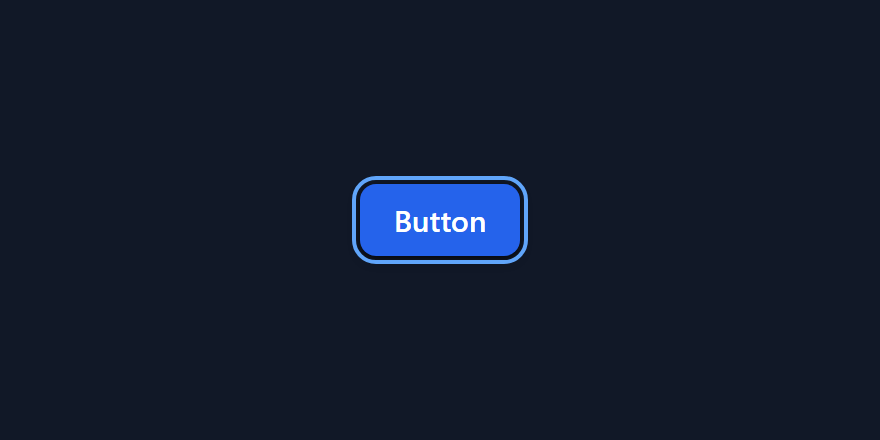
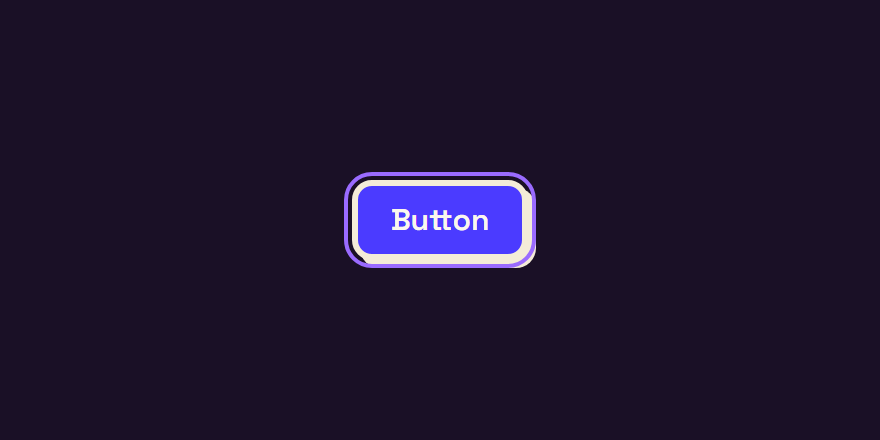
feat(tokens): disciplined maximalist base aesthetic in light, dark, and pixel
Reassign the semantic token layer to a clashing-but-controlled palette
(electric cobalt / coral / violet on warm cream and near-black ink), add
serif-display + grotesk type tokens, and an expressive shape scale
(radius, a chunky border width, a flat blur-free offset shadow). Harmonize
the pixel skin as a retro-block treatment of the same accents.

Semantic token names are unchanged (ADR 0003); Button's props/public API
are unchanged and its only CSS change is swapping the border to the new
--border-width-thick / --color-border-strong tokens. Shades were tuned so
every rendered text pairing clears WCAG 2.1 AA across all four theme-skin
modes; the axe gate stays the hard floor (ADR 0006), proven non-vacuous
(a seeded low-contrast pixel-dark pairing fails at 1.93:1, reverted).

- tokens.css: two-tier maximalist palette + type/shape semantic tokens
- skins.css: --font-family-base -> grotesk; display serif on headings
- preview: self-host Fraunces + Space Grotesk via @fontsource-variable
- chromatic.yml: document main-baseline + PR runs and the four modes
- docs/adr/0008 (Proposed); ARCHITECTURE token vocabulary updated

Changed region(s): [[0.3682, 0.3841, 0.6136, 0.6205]]

diff --git a/src/styles/tokens.css b/src/styles/tokens.css
@@ -3,117 +3,149 @@
   :root {
     --palette-white: #fff;
     --palette-black: #000;
-    --palette-gray-50: #f9fafb;
-    --palette-gray-100: #f3f4f6;
-    --palette-gray-200: #e5e7eb;
-    --palette-gray-300: #d1d5db;
-    --palette-gray-400: #9ca3af;
-    --palette-gray-500: #6b7280;
-    --palette-gray-600: #4b5563;
-    --palette-gray-700: #374151;
-    --palette-gray-800: #1f2937;
-    --palette-gray-900: #111827;
-    --palette-blue-400: #60a5fa;
-    --palette-blue-500: #3b82f6;
-    --palette-blue-600: #2563eb;
-    --palette-blue-700: #1d4ed8;
-    --palette-blue-800: #1e40af;
-    --palette-blue-900: #1e3a8a;
-    --palette-red-400: #f87171;
-    --palette-red-600: #dc2626;
-    --palette-red-700: #b91c1c;
-    --palette-red-800: #991b1b;
 
-    --palette-pixel-cream: #e9e0cc;
-    --palette-pixel-cream-deep: #d7cbab;
-    --palette-pixel-ink: #241a0f;
-    --palette-pixel-night: #1a1420;
-    --palette-pixel-night-raised: #2a2033;
-    --palette-pixel-parchment: #f4ecd8;
-    --palette-pixel-grape: #7b2d8e;
-    --palette-pixel-grape-deep: #5a1f6b;
-    --palette-pixel-grape-dark: #431551;
+    /* Maximalist neutrals — warm cream paper and near-black ink. */
+    --palette-cream: #fbf7ee;
+    --palette-cream-deep: #f2e9d6;
+    --palette-cream-sunk: #e7dbc2;
+    --palette-ink: #140f1c;
+    --palette-ink-soft: #4a4458;
+    --palette-parchment: #f4ecd8;
+    --palette-night: #1a1026;
+    --palette-night-raised: #241a2e;
+    --palette-night-sunk: #2e2340;
+    --palette-lilac-muted: #b9b2c8;
+    --palette-lilac-border: #6e6482;
+
+    /* Hero accents — clashing electric cobalt / coral / violet. */
+    --palette-cobalt: #2419e8;
+    --palette-cobalt-hover: #1c12b8;
+    --palette-cobalt-active: #150d8c;
+    --palette-cobalt-bright: #4b3bff;
+    --palette-cobalt-bright-hover: #3a28d6;
+    --palette-cobalt-bright-active: #2a1bb0;
+    --palette-coral: #ff3d7f;
+    --palette-coral-hover: #ff2e74;
+    --palette-coral-active: #ff1f6b;
+    --palette-coral-bright: #ff5c92;
+    --palette-coral-bright-hover: #ff4382;
+    --palette-coral-bright-active: #ff2e74;
+    --palette-violet: #7a3bff;
+    --palette-violet-bright: #9a6bff;
+    --palette-lime: #d4ff2e;
+    --palette-cyan: #7fe0ff;
+
+    /* Pixel-skin accents — deep, saturated retro blocks. */
+    --palette-pixel-violet: #5b1fb8;
+    --palette-pixel-violet-deep: #45138f;
+    --palette-pixel-violet-dark: #330b6b;
     --palette-pixel-blood: #a01e1e;
     --palette-pixel-blood-deep: #7d1515;
+    --palette-pixel-night: #140f1c;
+    --palette-pixel-night-raised: #281c38;
 
     --palette-space-1: 0.25rem;
     --palette-space-2: 0.5rem;
     --palette-space-3: 0.75rem;
     --palette-space-4: 1rem;
     --palette-space-5: 1.25rem;
+
     --palette-radius-none: 0;
-    --palette-radius-sm: 0.25rem;
-    --palette-radius-md: 0.5rem;
+    --palette-radius-sm: 0.375rem;
+    --palette-radius-md: 0.625rem;
+    --palette-radius-lg: 0.875rem;
+
+    --palette-border-thin: 1px;
+    --palette-border-thick: 3px;
+
+    /* Type primitives — expressive serif display + grotesk sans. */
+    --palette-font-display:
+      'Fraunces Variable', 'Fraunces', georgia, 'Times New Roman', serif;
+    --palette-font-sans:
+      'Space Grotesk Variable', 'Space Grotesk', system-ui, -apple-system, 'Segoe UI',
+      roboto, sans-serif;
 
     /* Tier 2 — semantic aliases. Themes and skins reassign only this layer. */
-    --color-bg-surface: var(--palette-white);
-    --color-bg-subtle: var(--palette-gray-100);
-    --color-bg-disabled: var(--palette-gray-200);
-    --color-text-primary: var(--palette-gray-900);
-    --color-text-muted: var(--palette-gray-600);
-    --color-text-on-accent: var(--palette-white);
-    --color-text-on-danger: var(--palette-white);
-    --color-accent: var(--palette-blue-700);
-    --color-accent-hover: var(--palette-blue-800);
-    --color-accent-active: var(--palette-blue-900);
-    --color-danger: var(--palette-red-700);
-    --color-danger-hover: var(--palette-red-800);
-    --color-danger-active: var(--palette-red-800);
-    --color-border-default: var(--palette-gray-300);
-    --color-border-strong: var(--palette-gray-900);
-    --color-border-focus: var(--palette-blue-600);
+    --color-bg-surface: var(--palette-cream);
+    --color-bg-subtle: var(--palette-cream-deep);
+    --color-bg-disabled: var(--palette-cream-sunk);
+    --color-text-primary: var(--palette-ink);
+    --color-text-muted: var(--palette-ink-soft);
+    --color-text-on-accent: var(--palette-cream);
+    --color-text-on-danger: var(--palette-ink);
+    --color-accent: var(--palette-cobalt);
+    --color-accent-hover: var(--palette-cobalt-hover);
+    --color-accent-active: var(--palette-cobalt-active);
+    --color-danger: var(--palette-coral);
+    --color-danger-hover: var(--palette-coral-hover);
+    --color-danger-active: var(--palette-coral-active);
+    --color-border-default: var(--palette-ink-soft);
+    --color-border-strong: var(--palette-ink);
+    --color-border-focus: var(--palette-violet);
+
+    --font-display: var(--palette-font-display);
+    --font-sans: var(--palette-font-sans);
 
     --radius-sm: var(--palette-radius-sm);
     --radius-md: var(--palette-radius-md);
+    --radius-lg: var(--palette-radius-lg);
 
-    --shadow-raised: 0 1px 2px rgb(0 0 0 / 8%), 0 2px 4px rgb(0 0 0 / 6%);
+    --border-width-regular: var(--palette-border-thin);
+    --border-width-thick: var(--palette-border-thick);
+
+    /* Flat, blur-free offset shadow — recolours per theme via border-strong. */
+    --shadow-raised: 4px 4px 0 var(--color-border-strong);
     --shadow-focus: 0 0 0 3px
       color-mix(in srgb, var(--color-border-focus) 55%, transparent);
   }
 
   :root[data-theme='dark'] {
-    --color-bg-surface: var(--palette-gray-900);
-    --color-bg-subtle: var(--palette-gray-800);
-    --color-bg-disabled: var(--palette-gray-700);
-    --color-text-primary: var(--palette-gray-50);
-    --color-text-muted: var(--palette-gray-300);
-    --color-accent: var(--palette-blue-600);
-    --color-accent-hover: var(--palette-blue-700);
-    --color-accent-active: var(--palette-blue-800);
-    --color-border-default: var(--palette-gray-600);
-    --color-border-strong: var(--palette-black);
-    --color-border-focus: var(--palette-blue-400);
-    --shadow-raised: 0 1px 2px rgb(0 0 0 / 40%), 0 2px 6px rgb(0 0 0 / 35%);
+    --color-bg-surface: var(--palette-night);
+    --color-bg-subtle: var(--palette-night-raised);
+    --color-bg-disabled: var(--palette-night-sunk);
+    --color-text-primary: var(--palette-cream);
+    --color-text-muted: var(--palette-lilac-muted);
+    --color-text-on-accent: var(--palette-cream);
+    --color-text-on-danger: var(--palette-ink);
+    --color-accent: var(--palette-cobalt-bright);
+    --color-accent-hover: var(--palette-cobalt-bright-hover);
+    --color-accent-active: var(--palette-cobalt-bright-active);
+    --color-danger: var(--palette-coral-bright);
+    --color-danger-hover: var(--palette-coral-bright-hover);
+    --color-danger-active: var(--palette-coral-bright-active);
+    --color-border-default: var(--palette-lilac-border);
+    --color-border-strong: var(--palette-parchment);
+    --color-border-focus: var(--palette-violet-bright);
   }
 
   :root[data-skin='pixel'] {
-    --color-bg-surface: var(--palette-pixel-cream);
-    --color-bg-subtle: var(--palette-pixel-cream-deep);
-    --color-bg-disabled: var(--palette-pixel-cream-deep);
-    --color-text-primary: var(--palette-pixel-ink);
-    --color-text-muted: var(--palette-pixel-ink);
-    --color-text-on-accent: var(--palette-pixel-parchment);
-    --color-text-on-danger: var(--palette-pixel-parchment);
-    --color-accent: var(--palette-pixel-grape);
-    --color-accent-hover: var(--palette-pixel-grape-deep);
-    --color-accent-active: var(--palette-pixel-grape-dark);
+    --color-bg-surface: var(--palette-cream);
+    --color-bg-subtle: var(--palette-cream-deep);
+    --color-bg-disabled: var(--palette-cream-sunk);
+    --color-text-primary: var(--palette-ink);
+    --color-text-muted: var(--palette-ink);
+    --color-text-on-accent: var(--palette-parchment);
+    --color-text-on-danger: var(--palette-parchment);
+    --color-accent: var(--palette-pixel-violet);
+    --color-accent-hover: var(--palette-pixel-violet-deep);
+    --color-accent-active: var(--palette-pixel-violet-dark);
     --color-danger: var(--palette-pixel-blood);
     --color-danger-hover: var(--palette-pixel-blood-deep);
     --color-danger-active: var(--palette-pixel-blood-deep);
-    --color-border-default: var(--palette-pixel-ink);
-    --color-border-strong: var(--palette-pixel-ink);
-    --color-border-focus: var(--palette-pixel-grape-deep);
+    --color-border-default: var(--palette-ink);
+    --color-border-strong: var(--palette-ink);
+    --color-border-focus: var(--palette-pixel-violet-deep);
   }
 
   :root[data-theme='dark'][data-skin='pixel'] {
     --color-bg-surface: var(--palette-pixel-night);
     --color-bg-subtle: var(--palette-pixel-night-raised);
     --color-bg-disabled: var(--palette-pixel-night-raised);
-    --color-text-primary: var(--palette-pixel-parchment);
-    --color-text-muted: var(--palette-pixel-parchment);
-    --color-accent: var(--palette-pixel-grape);
-    --color-border-default: var(--palette-pixel-parchment);
-    --color-border-strong: var(--palette-black);
-    --color-border-focus: var(--palette-pixel-grape);
+    --color-text-primary: var(--palette-parchment);
+    --color-text-muted: var(--palette-parchment);
+    --color-accent: var(--palette-pixel-violet);
+    --color-border-default: var(--palette-parchment);
+    --color-border-strong: var(--palette-parchment);
+    --color-border-focus: var(--palette-violet-bright);
   }
 }

diff --git a/src/styles/skins.css b/src/styles/skins.css
@@ -8,7 +8,7 @@
 
 @layer base {
   :root {
-    --font-family-base: system-ui, -apple-system, 'Segoe UI', roboto, sans-serif;
+    --font-family-base: var(--font-sans);
   }
 
   :root[data-skin='pixel'] {
@@ -21,5 +21,17 @@
     font-family: var(--font-family-base);
     background: var(--color-bg-surface);
     color: var(--color-text-primary);
+  }
+
+  h1,
+  h2,
+  h3,
+  h4 {
+    font-family: var(--font-display);
+    font-weight: 600;
+  }
+
+  :root[data-skin='pixel'] :is(h1, h2, h3, h4) {
+    font-family: var(--font-family-base);
   }
 }

diff --git a/.storybook/preview.tsx b/.storybook/preview.tsx
@@ -2,6 +2,8 @@ import type { Preview, Decorator } from '@storybook/react-vite';
 import { withThemeByDataAttribute } from '@storybook/addon-themes';
 import { setLocale, type Locale } from '../src/lib/i18n';
 
+import '@fontsource-variable/fraunces';
+import '@fontsource-variable/space-grotesk';
 import '../src/styles/layers.css';
 import '../src/styles/reset.css';
 import '../src/styles/tokens.css';

diff --git a/src/components/atoms/Button/Button.module.css b/src/components/atoms/Button/Button.module.css
@@ -4,7 +4,7 @@
     align-items: center;
     justify-content: center;
     gap: var(--palette-space-2);
-    border: 1px solid transparent;
+    border: var(--border-width-thick) solid var(--color-border-strong);
     border-radius: var(--radius-md);
     font-weight: 600;
     line-height: 1.2;

diff --git a/docs/adr/0008-maximalist-base-aesthetic.md b/docs/adr/0008-maximalist-base-aesthetic.md
@@ -1,0 +1,54 @@
+# ADR 0008 — Maximalist base aesthetic under the WCAG 2.1 AA gate
+
+## Status
+
+Proposed
+
+## Context
+
+The base aesthetic was a neutral blue-on-white default — safe, but it did not demonstrate that the
+token contract (ADR 0003) and the accessibility gate (ADR 0006) survive an opinionated, high-energy
+visual language. A design system earns its contract by proving a bold reskin changes values only, not
+component CSS, and still passes the same hard a11y gate.
+
+The chosen direction is **disciplined maximalism**: a clashing-but-controlled palette (electric
+cobalt, coral, violet on warm cream / near-black ink), expressive mixed typography (a serif display
+face against a grotesk for body and controls), and ornamental shape (expressive radius, chunky
+borders, a flat blur-free offset shadow) — held together by strong structure and legible controls.
+
+The non-negotiable constraint: every text/surface pairing, in **all four** theme×skin modes, still
+meets WCAG 2.1 AA (4.5:1 body text, the a11y gate from ADR 0006). "More is more" never buys a
+contrast exemption.
+
+## Decision
+
+We adopt disciplined maximalism as the base aesthetic, expressed entirely through the semantic token
+layer of `src/styles/tokens.css` (ADR 0003 unchanged):
+
+- **Colour** — primitives gain hero accents (cobalt/coral/violet/lime/cyan) and warm cream/ink
+  neutrals; semantic `--color-*` names are unchanged and reassigned per theme and skin. Shades were
+  tuned so each rendered text pairing clears 4.5:1: danger carries **ink** text on coral (cream fails
+  at 3.4:1), primary carries **cream** text on cobalt, and the pixel skin blocks (deep violet, deep
+  blood) carry **parchment** text.
+- **Type** — two new semantic tokens, `--font-display` (Fraunces) and `--font-sans` (Space Grotesk),
+  self-hosted via `@fontsource-variable/*` (no CDN, so offline / Linux CI / Chromatic all resolve the
+  same font). Body and controls use the sans; headings use the display serif; the pixel skin keeps
+  its mono/pixel face.
+- **Shape** — an expressive radius scale (`--radius-sm/md/lg`, controls 10px / cards 14px, pixel skin
+  0), a chunky `--border-width-thick`, and `--shadow-raised` redefined as a flat, blur-free offset
+  shadow that recolours per theme through `--color-border-strong`.
+
+WCAG 2.1 AA via axe (`a11y.test: 'error'`) stays the hard gate across every theme and skin. A failing
+pairing is retuned to pass; the threshold is never loosened.
+
+## Consequences
+
+- The token contract is proven against a demanding palette: the only component CSS change was
+  swapping Button's border to the new `--border-width-thick` / `--color-border-strong` tokens; the
+  look is otherwise entirely token-driven. Button's props and public API are unchanged.
+- Shades are an accessibility input, not a free choice — danger text polarity flips to dark on the
+  bright coral because that is the pairing that passes. Future accents inherit the same discipline.
+- Two self-hosted variable-font dependencies are added; they ship their own woff2, so there is no
+  runtime network dependency and CI/Chromatic render deterministically.
+- New semantic vocabulary (`--radius-lg`, `--border-width-*`, `--font-display`, `--font-sans`) joins
+  the stable contract; like the existing names it must not be renamed without a superseding ADR.

diff --git a/docs/ARCHITECTURE.md b/docs/ARCHITECTURE.md
@@ -54,10 +54,14 @@ is ceremony; use dot-notation instead.
 
 All tokens live in one file, `src/styles/tokens.css`, in two tiers:
 
-1. **Primitive palette** — raw values, named by what they *are*: `--palette-blue-500`,
-   `--palette-gray-900`, `--palette-space-4`. The only place raw colour values exist.
+1. **Primitive palette** — raw values, named by what they *are*: `--palette-cobalt`,
+   `--palette-ink`, `--palette-space-4`, `--palette-radius-md`, `--palette-border-thick`,
+   `--palette-font-sans`. The only place raw colour values exist.
 2. **Semantic aliases** — named by what they *do*, referencing primitives: `--color-bg-surface`,
-   `--color-text-primary`, `--color-border-focus`, `--radius-md`, `--shadow-raised`.
+   `--color-text-primary`, `--color-border-focus`, `--radius-md`, `--shadow-raised`. The vocabulary
+   spans four families: colour (`--color-*`), shape (`--radius-sm/md/lg`, `--border-width-regular/
+   thick`, the flat `--shadow-raised`), and type (`--font-display` serif, `--font-sans` grotesk).
+   The maximalist base aesthetic that fills these is recorded in ADR 0008.
 
 **Components consume the semantic layer only.** No `*.module.css` may contain a raw `hex`, `rgb()`
 or `hsl()` literal — a stylelint rule bans it (see ADR 0003). This is the fitness function that keeps
